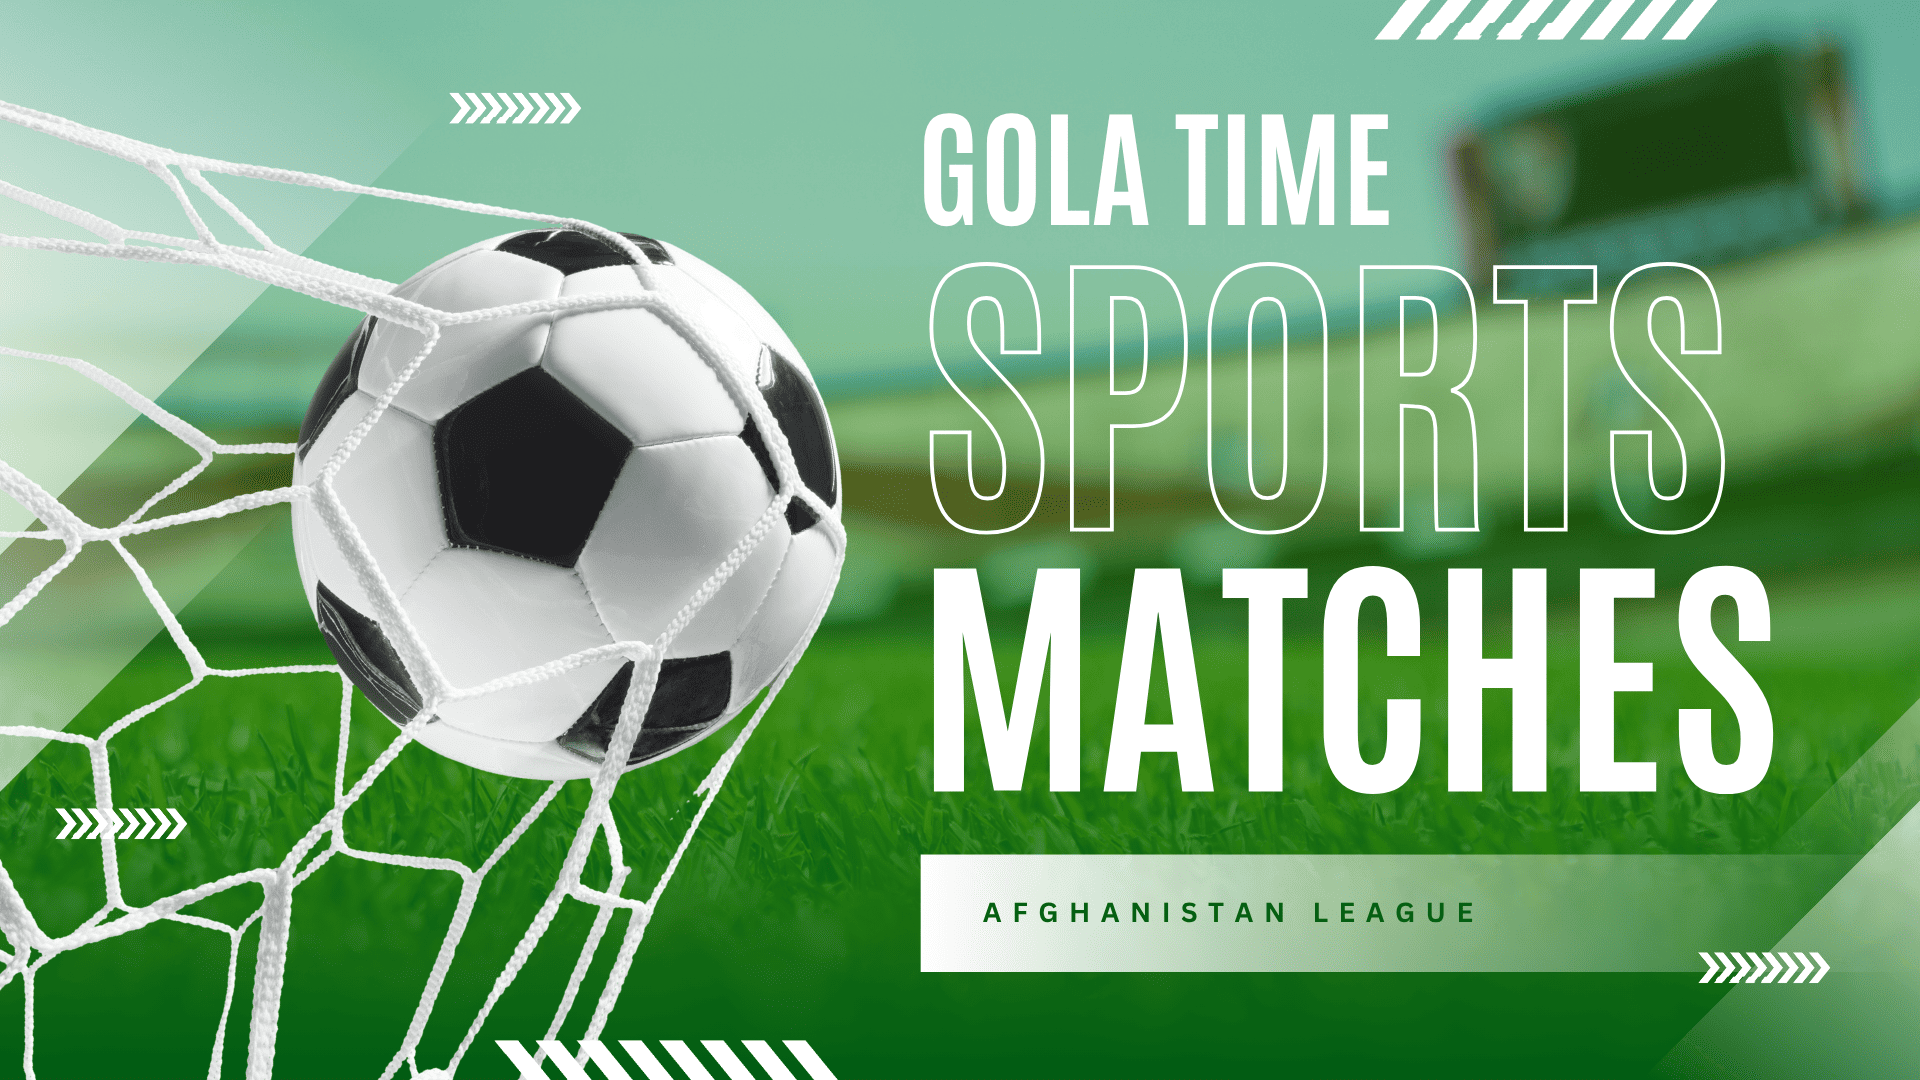
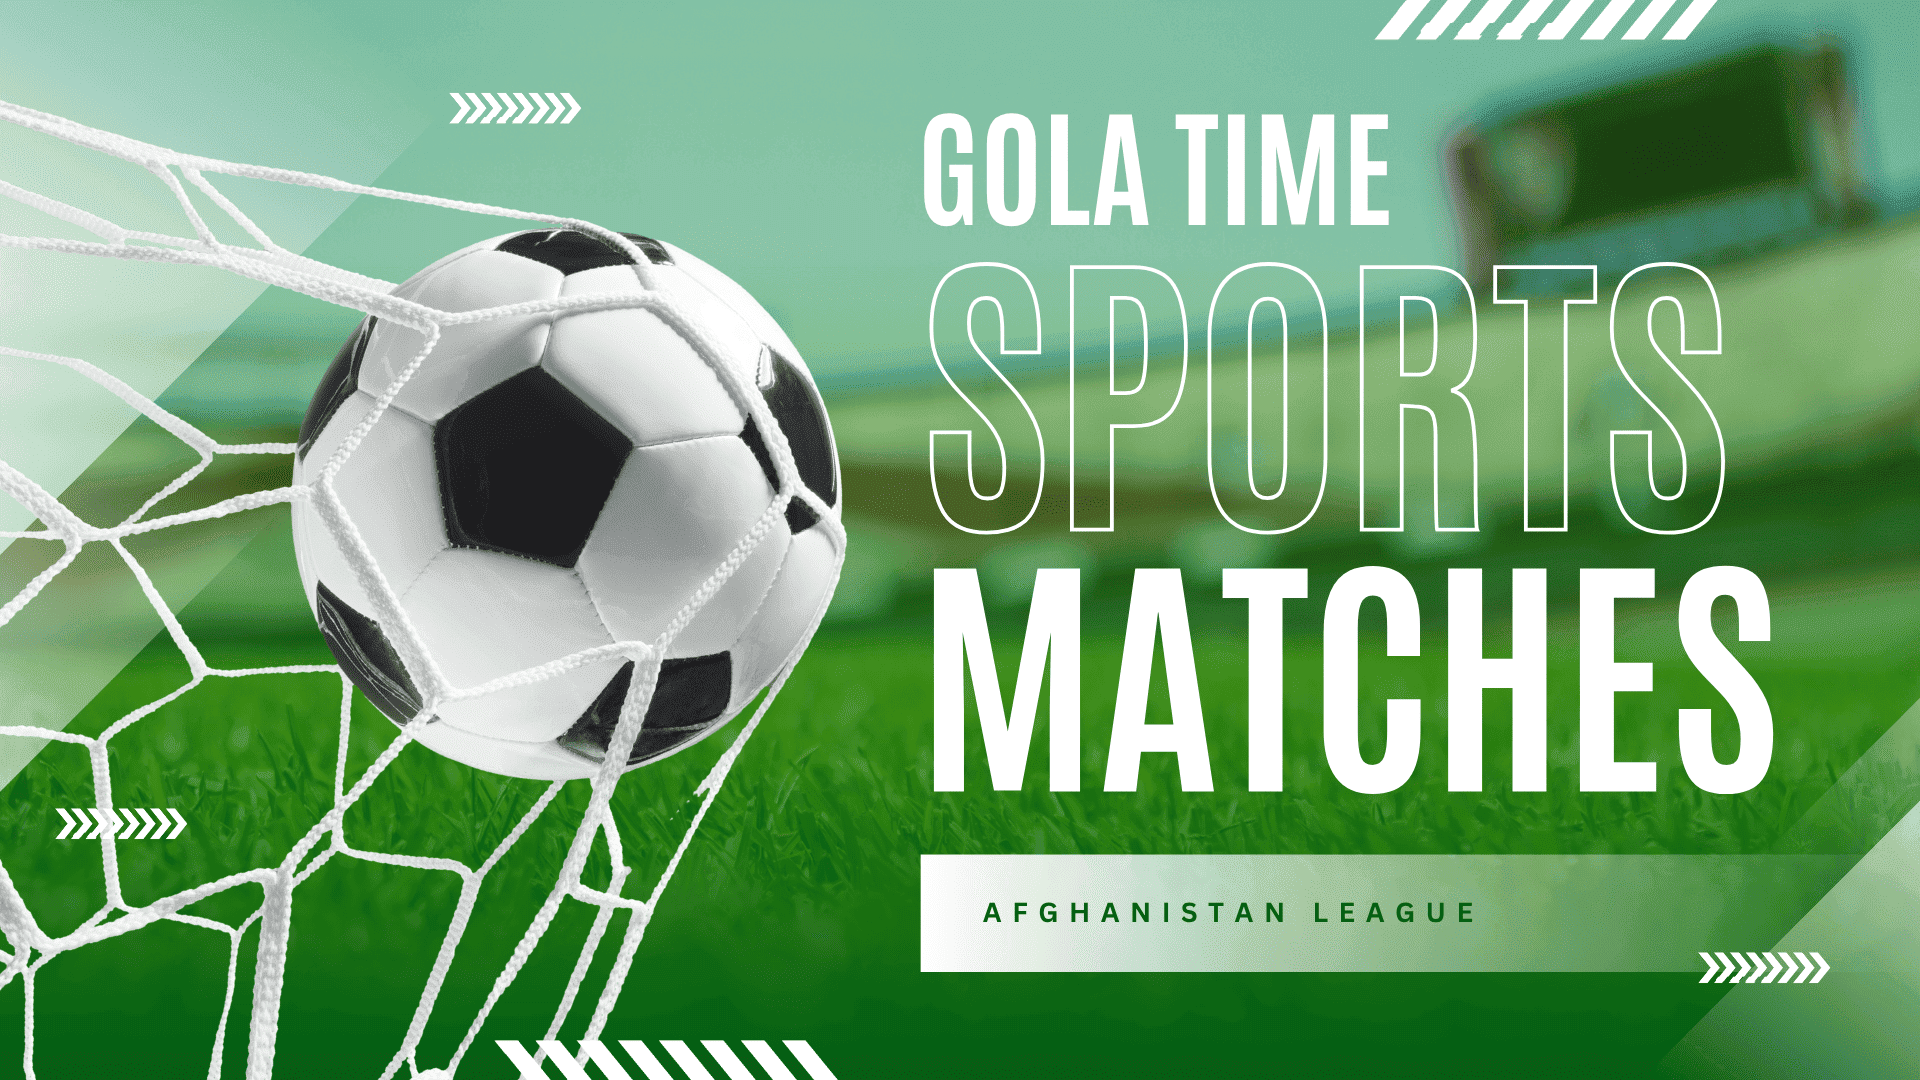
update image

diff --git a/README.md b/README.md
@@ -1,5 +1,5 @@
 <p align="center">
-  <img src="" alt="GOAL TIME" width="100%" />
+  <img src="https://raw.githubusercontent.com/majidbmk/Goal_Time/refs/heads/main/img/s3.png" alt="GOAL TIME" width="100%" />
 </p>
 
 <h1 align="center">گلتایم</h1>
@@ -40,9 +40,8 @@
 اپلیکشن با فریمورک فلاتر نوشته شده است و API ها با DRF در جنگو توسعه داده شده است
 
 <p align="center">
-  <img src="" width="45%" />
+  <img src="https://raw.githubusercontent.com/majidbmk/Goal_Time/refs/heads/main/img/s1.png" width="45%" />
   &nbsp;&nbsp;
-  <img src="" width="45%" />
 </p>
 
 ## download : 
@@ -59,7 +58,7 @@ https://play.google.com/store/apps/details?id=com.hamid.goaltime&hl=en
 > کد منبع (سورس کد) این پروژه محرمانه بوده و به دلیل رعایت حقوق مالکیت کارفرما، امکان دسترسی عمومی به آن وجود ندارد.
 
 <p align="center">
-  <a href="https://github.com/itsMajid-dev/fanichii" target="_blank">
+  <a href="https://github.com/itsMajid-dev/goal_time_v2" target="_blank">
     <img src="https://img.shields.io/badge/View%20Source%20Code-181717?style=for-the-badge&logo=github&logoColor=white" />
   </a>
 </p>
